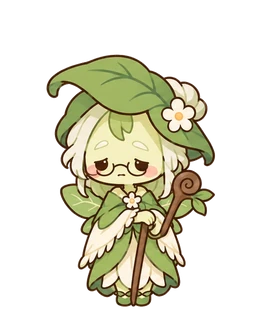
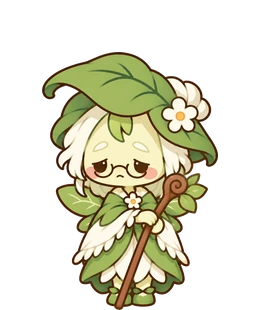
ぽぷら（おとしより・しょんぼり）の 絵 を 差し替え（つえ の 曲がり）

Changed region(s): [[0.1538, 0.1452, 0.8615, 1.0]]

diff --git a/index.html b/index.html
@@ -5,10 +5,10 @@
 <link rel="icon" type="image/png" sizes="64x64" href="favicon.png?v=3">
 <link rel="apple-touch-icon" href="apple-touch-icon.png?v=3">
 <link rel="manifest" href="manifest.json">
-<script src="stickers/stickers.js?v=202610280811"></script>
-<script src="nakama/nakama.js?v=202610280811"></script>
-<script src="clock/clock.js?v=202610280811"></script>
-<script src="drill/patterns.js?v=202610280811"></script>
+<script src="stickers/stickers.js?v=202610280819"></script>
+<script src="nakama/nakama.js?v=202610280819"></script>
+<script src="clock/clock.js?v=202610280819"></script>
+<script src="drill/patterns.js?v=202610280819"></script>
 <meta name="apple-mobile-web-app-title" content="けいさん">
 <link rel="preconnect" href="https://fonts.googleapis.com">
 <link rel="preconnect" href="https://fonts.gstatic.com" crossorigin>
@@ -3466,7 +3466,7 @@ body.course .levels.nrange .lv{padding:3px 2px;font-size:12px}
   const nkSp = id => NK_LIST.find(x=>x.id===id) || NK_LIST[0];
   // ちいさい だんかいは すこし おおきく みせる（そだって いる かんじは のこす）
   const NK_SCALE = [1.9, 1.5, 1.15, 1, 1, 1];
-  const NK_IMG_VER = "4";   // なかまの え を さしかえたら ばんごうを あげる（ふるい え が のこらない ように）
+  const NK_IMG_VER = "5";   // なかまの え を さしかえたら ばんごうを あげる（ふるい え が のこらない ように）
   const nkImgSrc = (id, stage, mood) => `nakama/${id}/${NK_STAGES[stage]}_${stage===0 && mood==="s" ? "n" : mood}.webp?v=${NK_IMG_VER}`;
   const dkDate = k => { const [y,m,d]=k.split("-").map(Number); return new Date(y, m-1, d); };
   const dkAdd = (k, n) => { const d=dkDate(k); d.setDate(d.getDate()+n); return dayKey(d); };

diff --git a/CHANGELOG.md b/CHANGELOG.md
@@ -12,6 +12,9 @@
 ## 2026-10-28
 
 ### 修正（なかま）
+- **08:19** ぽぷら（おとしより・しょんぼり）の絵で、つえが曲がっていたのを直しました。
+
+### 修正（なかま）
 - **08:11** すなまる（おとしより）の絵で、あしの数がおかしかった4枚（ふつう・あさ・ひる・ねむい）を、あしが4本の絵に差し替えました。
 
 ### 修正（なかま）
